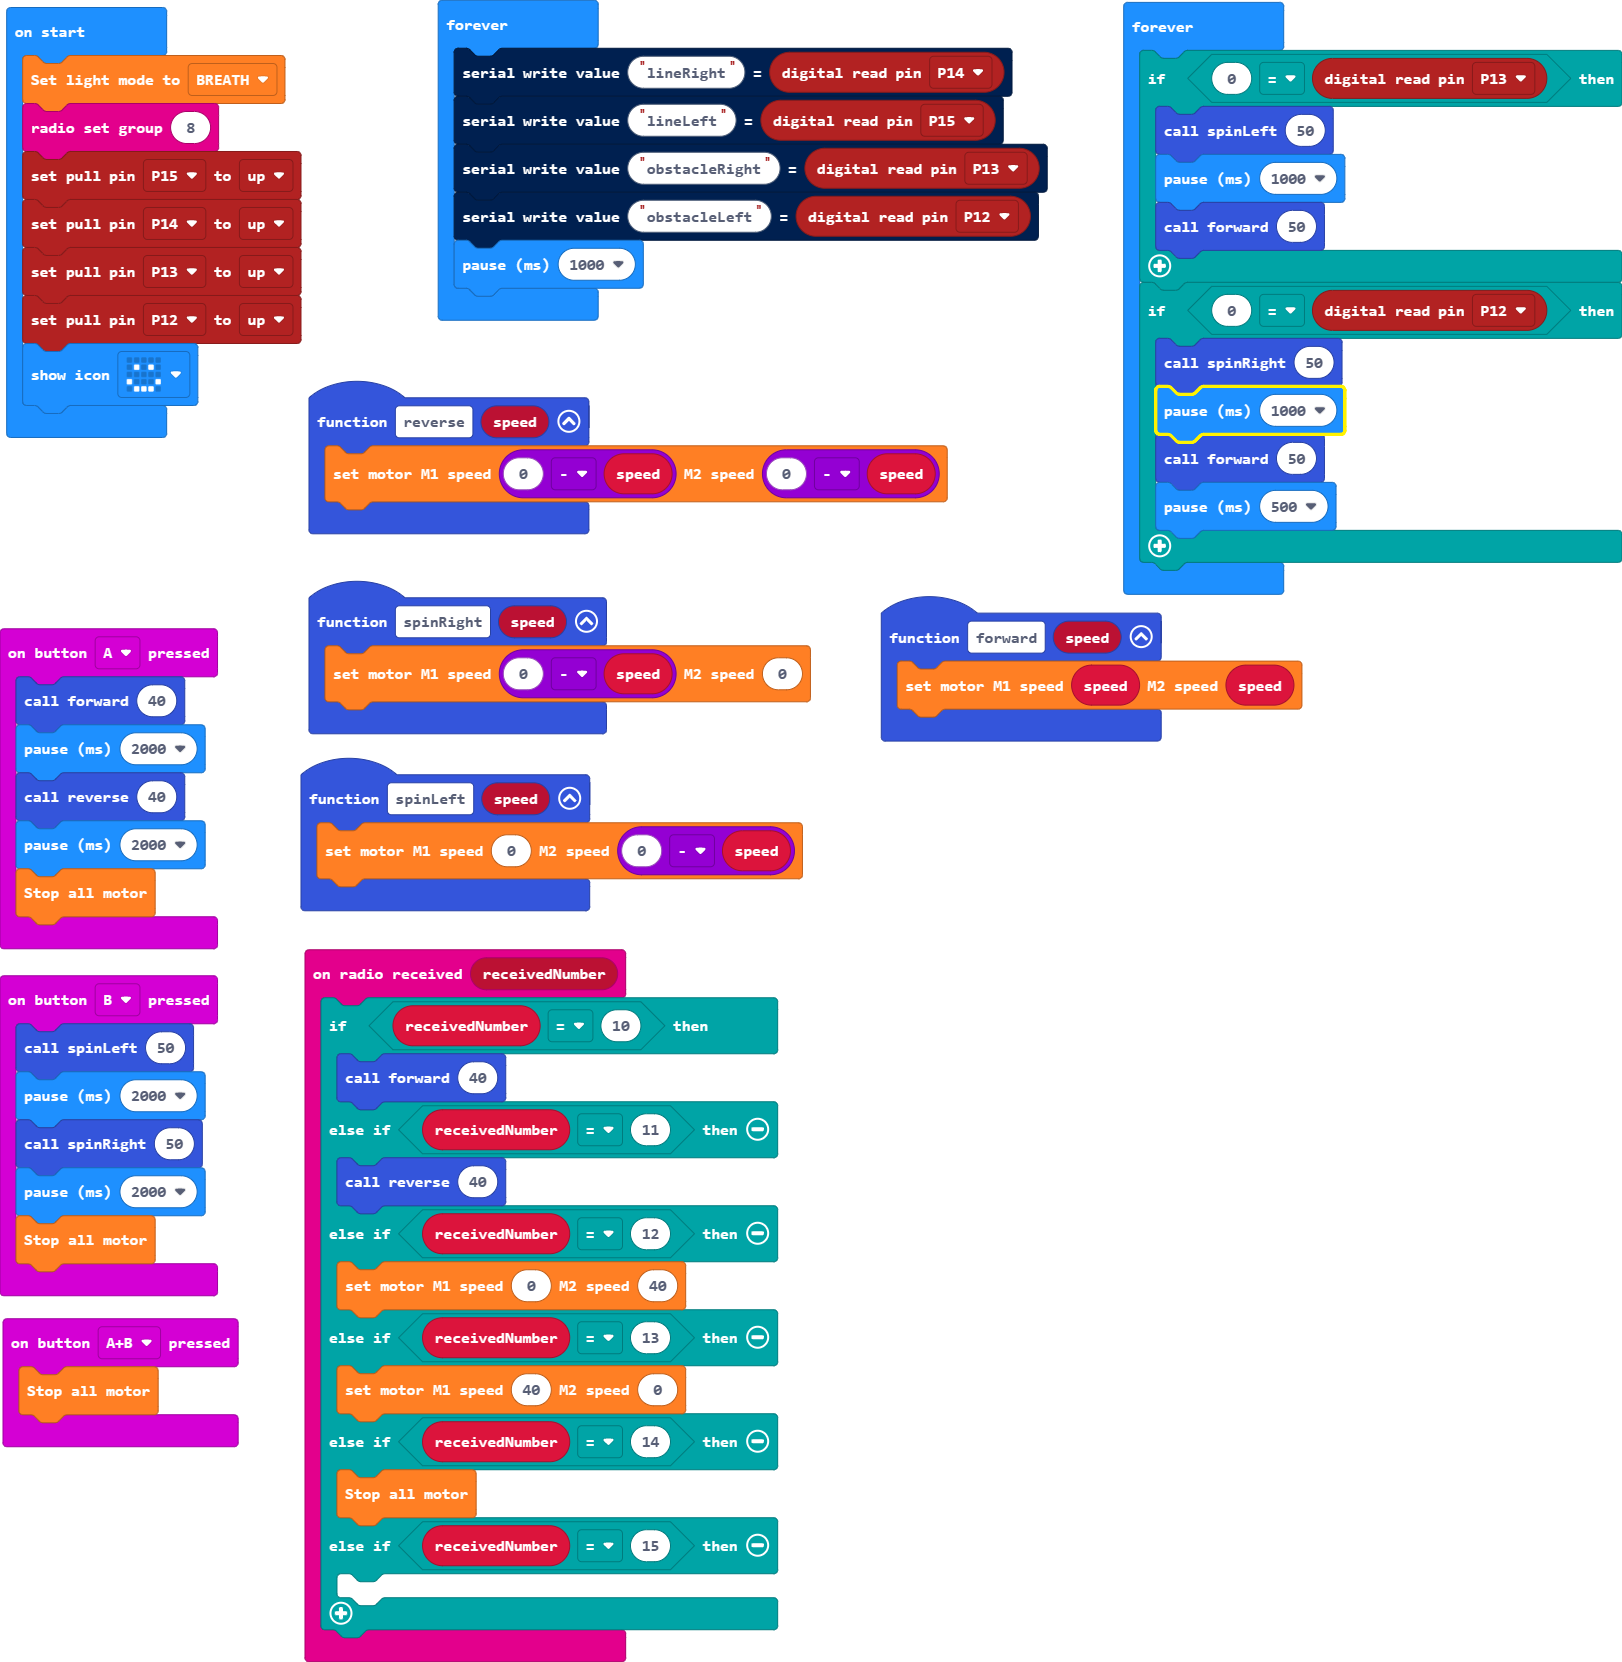
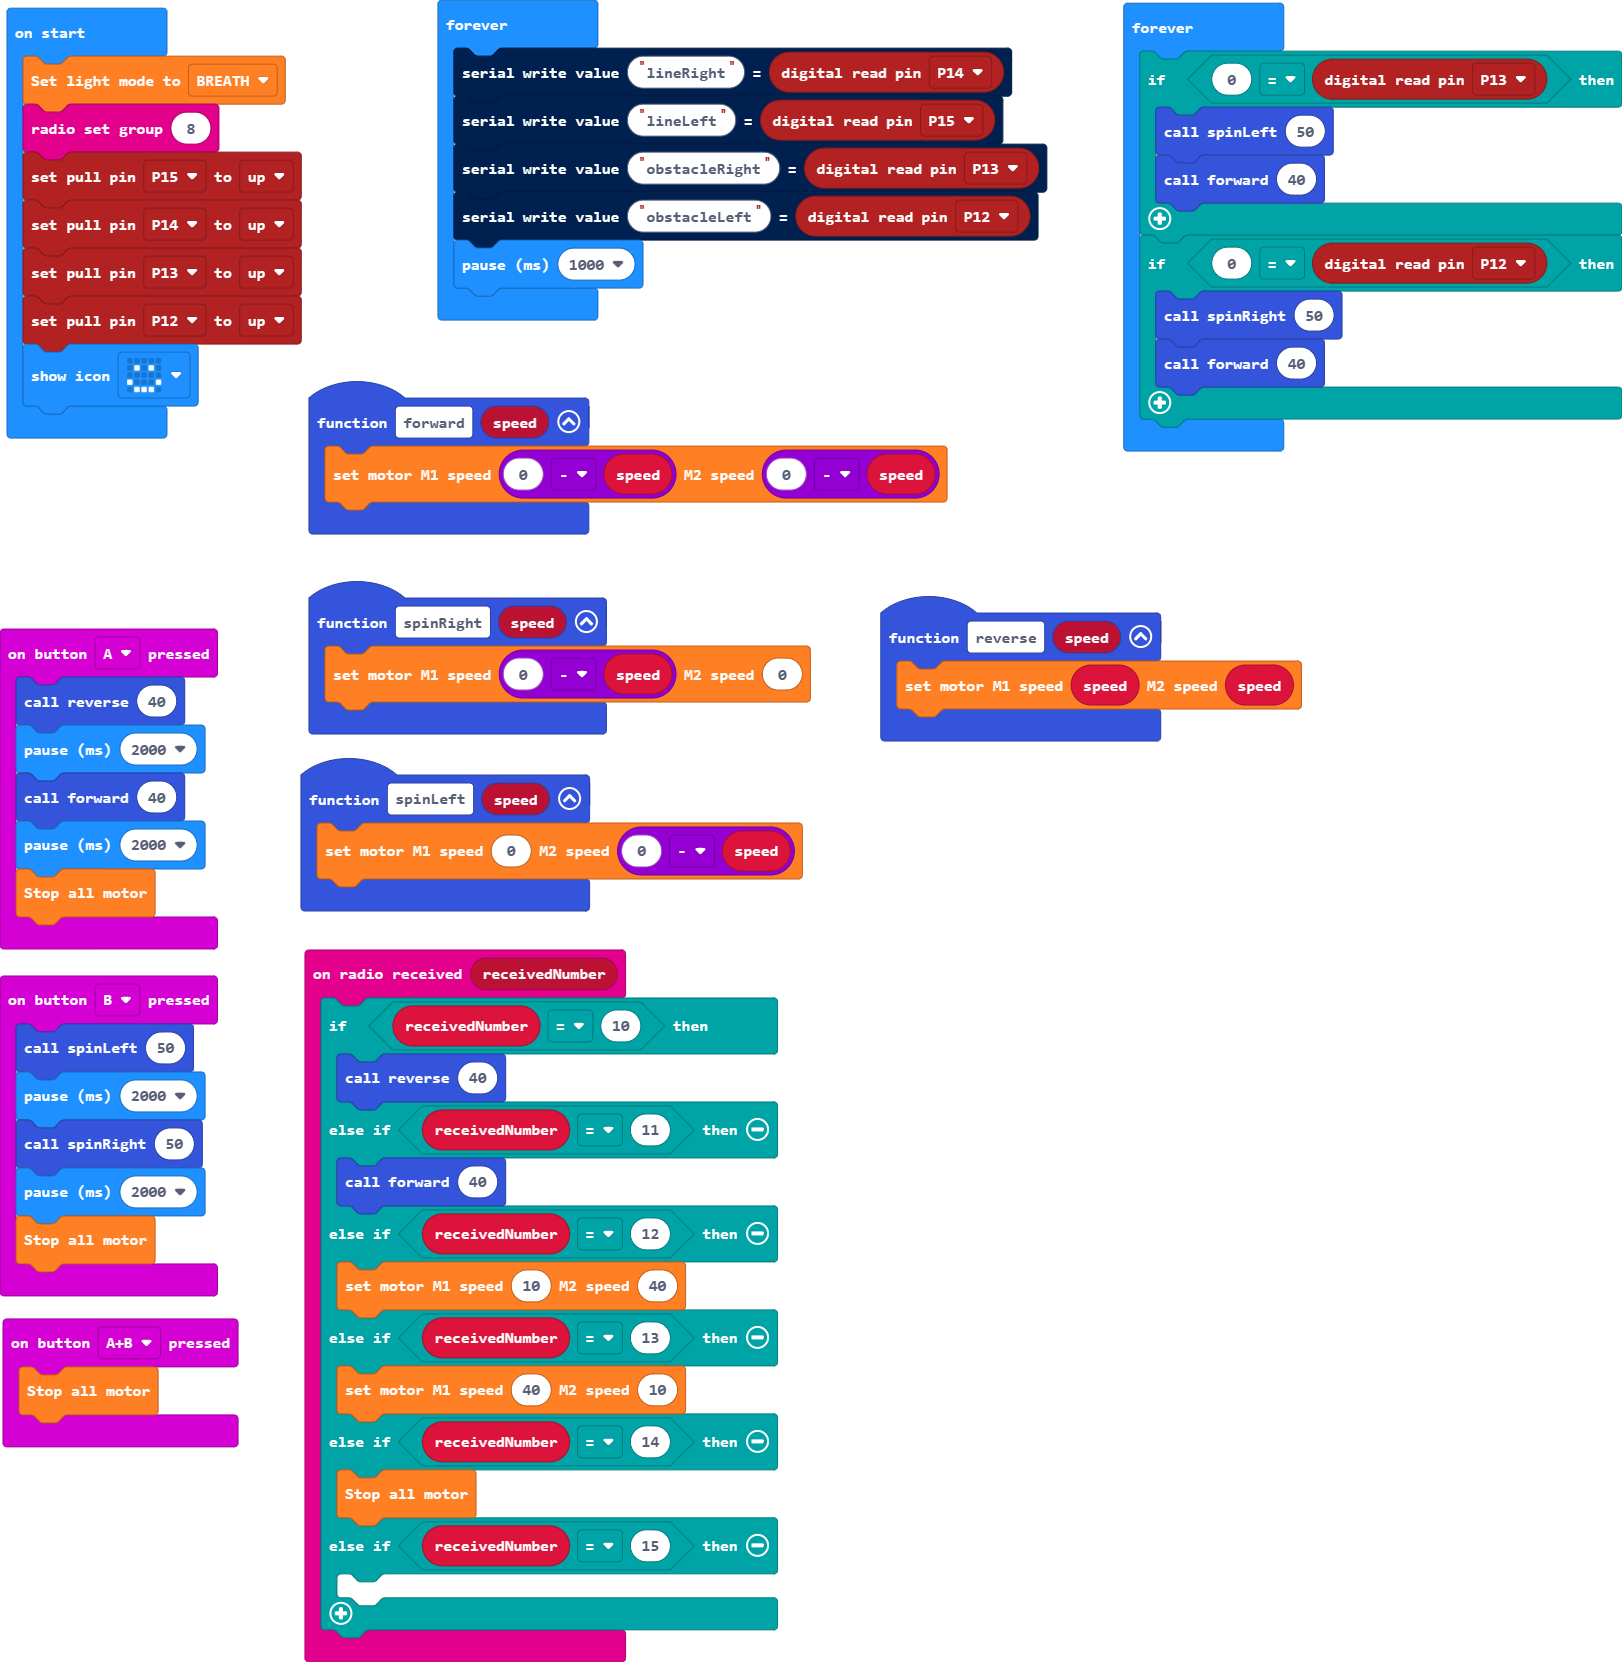
Update main.blocks, main.ts

diff --git a/main.ts b/main.ts
@@ -1,12 +1,12 @@
 radio.onReceivedNumber(function (receivedNumber) {
     if (receivedNumber == 10) {
-        forward(40)
-    } else if (receivedNumber == 11) {
         reverse(40)
+    } else if (receivedNumber == 11) {
+        forward(40)
     } else if (receivedNumber == 12) {
-        wuKong.setAllMotor(0, 40)
+        wuKong.setAllMotor(10, 40)
     } else if (receivedNumber == 13) {
-        wuKong.setAllMotor(40, 0)
+        wuKong.setAllMotor(40, 10)
     } else if (receivedNumber == 14) {
         wuKong.stopAllMotor()
     } else if (receivedNumber == 15) {
@@ -14,9 +14,9 @@ radio.onReceivedNumber(function (receivedNumber) {
     }
 })
 input.onButtonPressed(Button.A, function () {
-    forward(40)
-    basic.pause(2000)
     reverse(40)
+    basic.pause(2000)
+    forward(40)
     basic.pause(2000)
     wuKong.stopAllMotor()
 })
@@ -24,7 +24,7 @@ function spinLeft (speed: number) {
     wuKong.setAllMotor(0, 0 - speed)
 }
 function reverse (speed: number) {
-    wuKong.setAllMotor(0 - speed, 0 - speed)
+    wuKong.setAllMotor(speed, speed)
 }
 input.onButtonPressed(Button.AB, function () {
     wuKong.stopAllMotor()
@@ -40,7 +40,7 @@ function spinRight (speed: number) {
     wuKong.setAllMotor(0 - speed, 0)
 }
 function forward (speed: number) {
-    wuKong.setAllMotor(speed, speed)
+    wuKong.setAllMotor(0 - speed, 0 - speed)
 }
 wuKong.setLightMode(wuKong.LightMode.BREATH)
 radio.setGroup(8)
@@ -59,13 +59,10 @@ basic.forever(function () {
 basic.forever(function () {
     if (0 == pins.digitalReadPin(DigitalPin.P13)) {
         spinLeft(50)
-        basic.pause(1000)
-        forward(50)
+        forward(40)
     }
     if (0 == pins.digitalReadPin(DigitalPin.P12)) {
         spinRight(50)
-        basic.pause(1000)
-        forward(50)
-        basic.pause(500)
+        forward(40)
     }
 })
